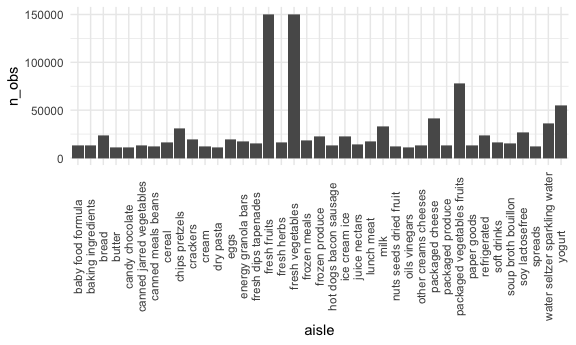
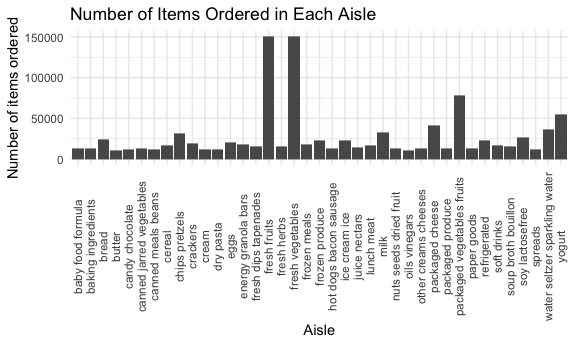
Final changes

diff --git a/p8105_hw3_zz2899.md b/p8105_hw3_zz2899.md
@@ -79,7 +79,10 @@ aisles sensibly, and organize your plot so others can read it.
 filter(grouped_by_aisle, n_obs>10000) %>% 
   ggplot(aes(x = aisle, y = n_obs)) + 
   geom_col()+
-  theme(axis.text.x = element_text(angle = 90, hjust = 0.5, vjust = 0.5))
+  theme(axis.text.x = element_text(angle = 90, hjust = 0.5, vjust = 0.5))+
+  labs(title = "Number of Items Ordered in Each Aisle",
+       x = "Aisle",
+       y = "Number of items ordered")
 ```
 
 <img src="p8105_hw3_zz2899_files/figure-gfm/unnamed-chunk-3-1.png" width="90%" />
@@ -231,6 +234,8 @@ tidyBRFSS <-
 **1.** In 2002, which states were observed at 7 or more locations? What
 about in 2010?
 
+States that were observed at 7 or more locations in 2002:
+
 ``` r
 In2002 <-
   filter(tidyBRFSS, year == 2002)%>%
@@ -252,6 +257,8 @@ In2002
 | NC    |     7 |
 | NJ    |     8 |
 | PA    |    10 |
+
+States that were observed at 7 or more locations in 2010:
 
 ``` r
 In2010 <-
@@ -302,13 +309,16 @@ ExcellentResp <-
 ``` r
 ExcellentResp%>%
   ggplot(aes(x = year, y = state_average, color = state)) + 
-    geom_point() + geom_line() + 
-    theme(legend.position = "right")
+  geom_point() + geom_line() + 
+  theme(legend.position = "right") + 
+  labs(title = "Average data_values over Time in States",
+       x = "Year",
+       y = "State Average")
 ```
 
 <img src="p8105_hw3_zz2899_files/figure-gfm/unnamed-chunk-9-1.png" width="90%" />
 
-**3.**Make a two-panel plot showing, for the years 2006, and 2010,
+**3.** Make a two-panel plot showing, for the years 2006, and 2010,
 distribution of `data_value` for responses (“Poor” to “Excellent”) among
 locations in NY State.
 
@@ -320,7 +330,8 @@ filter(tidyBRFSS, year == 2006 | year == 2010)%>%
   geom_density(alpha = .5) + 
   facet_grid(~year) + 
   scale_x_continuous(limits = c(0, 50)) +
-  viridis::scale_fill_viridis(discrete = TRUE)
+  viridis::scale_fill_viridis(discrete = TRUE) +
+  labs(title = "Distribution of data_value in NY")
 ```
 
 <img src="p8105_hw3_zz2899_files/figure-gfm/unnamed-chunk-10-1.png" width="90%" />
@@ -416,14 +427,14 @@ graph.
 
 ``` r
 accel_data%>%
-  ggplot(aes(x = activity_counts, y = activity, color = day, fill = day))+
+  ggplot(aes(x = activity_counts, y = activity, color = day))+
   geom_smooth(se = FALSE) +
   scale_x_continuous(
     breaks = c(0, 120, 240, 360, 480, 600, 720, 840, 960, 1080, 1200, 1320, 1440), 
     labels = c("0", "2", "4", "6", "8", "10", "12", "14", "16", "18", "20", "22", "24"),
     limits = c(0, 1440)) +
   labs(
-    title = "Activity over the day",
+    title = "Activity over the Day",
     x = "Hours",
     y = "Activity")
 ```
